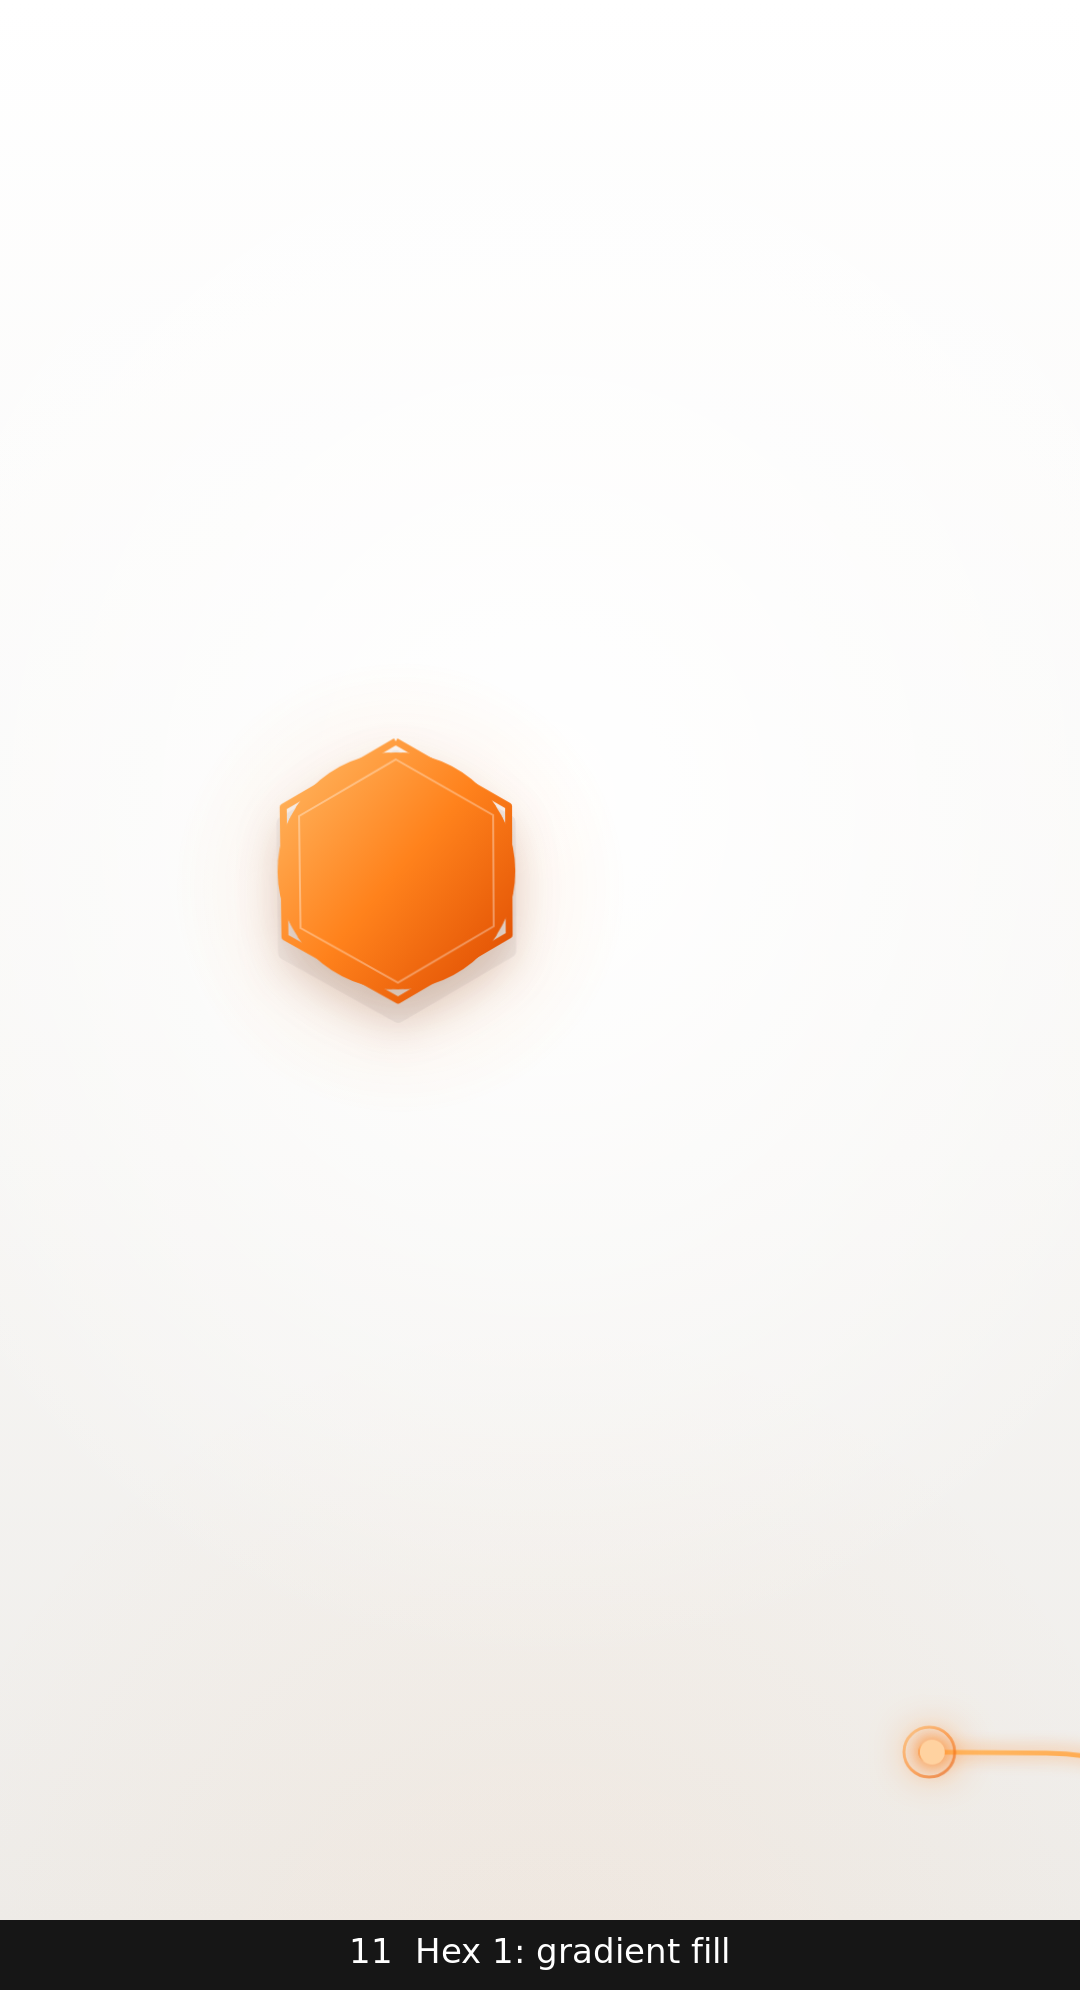
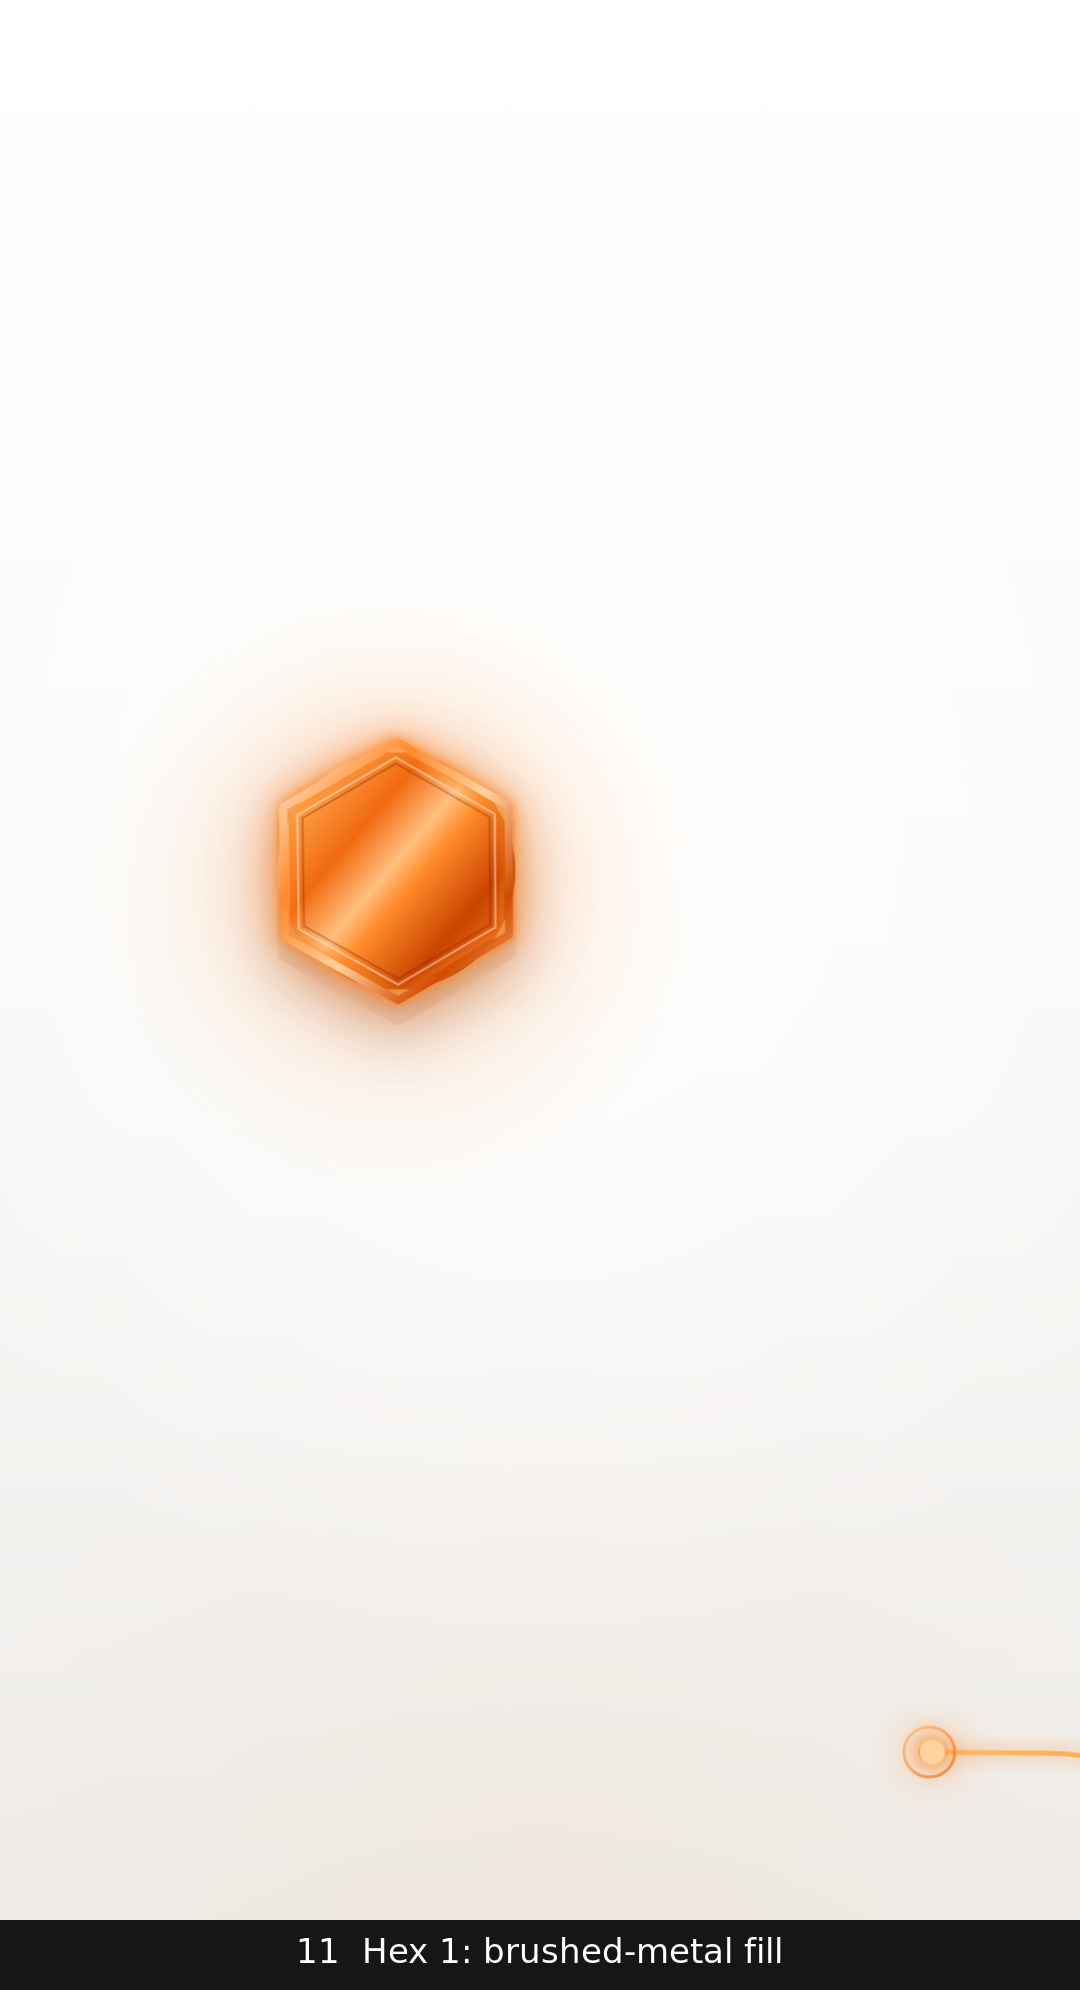
Metallic finish and stronger glow on watch and hexagons
Watch: black-chrome bezel, brushed case side, polished chrome inner ring,
satin sunray dial, polished steel hands, metallic orange arc with layered
glow, chrome-rimmed cap, orange bloom. Hexagons: brushed orange-metal fill,
chamfered bevel, gunmetal base, sweeping sheen, stronger orange bloom.

Claude-Session: https://claude.ai/code/session_01Bj9t4fPL2h7ooNX7PXr41w

Changed region(s): [[0.1833, 0.3427, 0.55, 0.5296], [0.3361, 0.9658, 0.7333, 0.997], [0.275, 0.9658, 0.3056, 0.997]]

diff --git a/video/motion.js b/video/motion.js
@@ -216,15 +216,22 @@ addScene({
     const layer = (z, style, html, cls = 'abs') => { const d = el('div', S.dw, cls, Object.assign({ left: 0, top: 0, width: '1000px', height: '1000px' }, style), html); d.style.transform = `translateZ(${z}px)`; return d; };
     const disc = (d, extra) => Object.assign({ left: px(500 - d / 2), top: px(500 - d / 2), width: px(d), height: px(d), borderRadius: '50%' }, extra);
     S.layers = [];
+    S.layers.push(layer(-90, disc(1060, { background: 'radial-gradient(closest-side, rgba(255,120,20,.38), rgba(255,140,40,.14) 55%, rgba(255,130,28,0))', filter: 'blur(18px)' })));   // orange bloom
     S.layers.push(layer(-80, disc(860, { background: 'radial-gradient(closest-side, rgba(40,20,0,.32), rgba(40,20,0,0))', filter: 'blur(28px)' })));
-    for (let k = 0; k < 12; k++) S.layers.push(layer(k * 3, disc(2 * R, { background: `linear-gradient(135deg, #${k % 2 ? '3a3a3a' : '2a2a2a'}, #050505)` })));
-    S.layers.push(layer(36, disc(2 * R, { background: 'conic-gradient(from 210deg, #0c0c0c, #5d5d5d 12%, #121212 30%, #2d2d2d 52%, #090909 74%, #4c4c4c 90%, #0c0c0c)', boxShadow: 'inset 0 0 0 2px rgba(255,255,255,.08)' })));
-    S.layers.push(layer(39, disc(2 * R - 64, { background: 'radial-gradient(circle at 40% 32%, #FFFFFF 0%, #F9F8F7 50%, #E2E0DE 100%)', boxShadow: 'inset 0 10px 26px rgba(0,0,0,.22)' })));
+    // brushed-metal case side: stacked rings with shifting highlights
+    for (let k = 0; k < 12; k++) S.layers.push(layer(k * 3, disc(2 * R, { background: `conic-gradient(from ${200 + k * 4}deg, #0a0a0a, #7a7a7a 10%, #151515 22%, #3a3a3a 40%, #b8b8b8 47%, #1a1a1a 55%, #050505 72%, #5c5c5c 86%, #0a0a0a)` })));
+    // black-chrome bezel with sharp reflections
+    S.layers.push(layer(36, disc(2 * R, { background: 'conic-gradient(from 205deg, #0b0b0b, #9a9a9a 7%, #1c1c1c 14%, #3c3c3c 28%, #e2e2e2 35%, #262626 42%, #070707 58%, #6a6a6a 70%, #121212 80%, #c4c4c4 88%, #0b0b0b)', boxShadow: 'inset 0 2px 0 rgba(255,255,255,.35), inset 0 -3px 6px rgba(0,0,0,.6)' })));
+    // polished chrome inner ring
+    S.layers.push(layer(38, disc(2 * R - 52, { background: 'conic-gradient(from 30deg, #f4f4f4, #7c7c7c 12%, #ffffff 24%, #5a5a5a 40%, #e6e6e6 55%, #6c6c6c 70%, #ffffff 84%, #8a8a8a 94%, #f4f4f4)',
+      WebkitMask: 'radial-gradient(circle, transparent 0 calc(50% - 9px), #000 calc(50% - 8px))', mask: 'radial-gradient(circle, transparent 0 calc(50% - 9px), #000 calc(50% - 8px))' })));
+    // satin sunray dial
+    S.layers.push(layer(39, disc(2 * R - 70, { background: 'repeating-conic-gradient(from 0deg, rgba(0,0,0,.028) 0deg 1.2deg, rgba(255,255,255,.05) 1.2deg 2.4deg), radial-gradient(circle at 40% 30%, #FFFFFF 0%, #F6F5F3 48%, #DCDAD7 100%)', boxShadow: 'inset 0 12px 28px rgba(0,0,0,.25), inset 0 -2px 4px rgba(255,255,255,.8)' })));
     const tk = layer(43, {}, '');
     const s = sv('svg', tk, { width: 1000, height: 1000, viewBox: '0 0 1000 1000', style: 'position:absolute;left:0;top:0;overflow:visible' });
     for (let i = 0; i < 60; i++) {
       const a = i / 60 * Math.PI * 2, maj = i % 5 === 0, r1 = R - 52, r2 = r1 - (maj ? 46 : 20);
-      sv('line', s, { x1: 500 + Math.cos(a) * r1, y1: 500 + Math.sin(a) * r1, x2: 500 + Math.cos(a) * r2, y2: 500 + Math.sin(a) * r2, stroke: maj ? '#1a1a1a' : '#C4C4C4', 'stroke-width': maj ? 7 : 3, 'stroke-linecap': 'round' });
+      sv('line', s, { x1: 500 + Math.cos(a) * r1, y1: 500 + Math.sin(a) * r1, x2: 500 + Math.cos(a) * r2, y2: 500 + Math.sin(a) * r2, stroke: maj ? 'url(#gChrome)' : '#BDBDBD', 'stroke-width': maj ? 8 : 3, 'stroke-linecap': maj ? 'butt' : 'round' });
     }
     [['12', 0], ['3', 90], ['6', 180], ['9', 270]].forEach(([n, d]) => {
       const a = (d - 90) * Math.PI / 180, r = R - 140;
@@ -233,15 +240,16 @@ addScene({
     const brand = sv('text', s, { x: 500, y: 650, 'text-anchor': 'middle', 'font-family': 'Inter', 'font-weight': 600, 'font-size': 20, 'letter-spacing': 6, fill: '#A0A0A0' }); brand.textContent = 'ISP · EVERY SECOND';
     const ar = layer(47, {}, '');
     const s2 = sv('svg', ar, { width: 1000, height: 1000, viewBox: '0 0 1000 1000', style: 'position:absolute;left:0;top:0;overflow:visible' });
-    S.arcG = sv('circle', s2, { cx: 500, cy: 500, r: R - 78, fill: 'none', stroke: '#FF821C', 'stroke-width': 30, opacity: .45, pathLength: 1, transform: 'rotate(-90 500 500)', style: 'filter:blur(12px)' });
-    S.arc = sv('circle', s2, { cx: 500, cy: 500, r: R - 78, fill: 'none', stroke: 'url(#gAcc)', 'stroke-width': 12, 'stroke-linecap': 'round', pathLength: 1, transform: 'rotate(-90 500 500)' });
+    S.arcG = sv('circle', s2, { cx: 500, cy: 500, r: R - 78, fill: 'none', stroke: '#FF7A10', 'stroke-width': 44, opacity: .55, pathLength: 1, transform: 'rotate(-90 500 500)', style: 'filter:blur(16px)' });
+    S.arcG2 = sv('circle', s2, { cx: 500, cy: 500, r: R - 78, fill: 'none', stroke: '#FFB060', 'stroke-width': 20, opacity: .7, pathLength: 1, transform: 'rotate(-90 500 500)', style: 'filter:blur(5px)' });
+    S.arc = sv('circle', s2, { cx: 500, cy: 500, r: R - 78, fill: 'none', stroke: 'url(#gArcMetal)', 'stroke-width': 14, 'stroke-linecap': 'round', pathLength: 1, transform: 'rotate(-90 500 500)' });
     S.layers.push(tk, ar);
     S.hShadow = layer(46, { filter: 'blur(7px)' }, handSVG('#000', '#000', '#000'));
     S.hShadow.style.transform = 'translate3d(16px,22px,46px)';
-    S.hand = layer(92, { filter: 'drop-shadow(0 4px 6px rgba(0,0,0,.25))' }, handSVG('url(#gDarkV)', '#111'));
-    S.sec = layer(104, {}, `<svg width="1000" height="1000" viewBox="0 0 1000 1000" style="position:absolute;left:0;top:0;overflow:visible"><g class="rot"><path d="M497 640 L498 500 L500 120 L502 500 L503 640 Z" fill="url(#gAccV)"/><circle cx="500" cy="610" r="14" fill="url(#gAccV)"/></g></svg>`);
-    S.cap = layer(112, {}, `<svg width="1000" height="1000" viewBox="0 0 1000 1000" style="position:absolute;left:0;top:0"><circle cx="500" cy="500" r="30" fill="url(#gCap)"/><circle cx="500" cy="500" r="9" fill="#2a1200"/></svg>`);
-    S.glass = layer(124, disc(2 * R - 64, { background: 'linear-gradient(150deg, rgba(255,255,255,.7) 0%, rgba(255,255,255,.12) 34%, rgba(255,255,255,0) 52%)' }));
+    S.hand = layer(92, { filter: 'drop-shadow(0 4px 6px rgba(0,0,0,.3))' }, handSVG('url(#gHandMetal)', 'url(#gChrome)', 'url(#gTrack)'));
+    S.sec = layer(104, {}, `<svg width="1000" height="1000" viewBox="0 0 1000 1000" style="position:absolute;left:0;top:0;overflow:visible"><g class="rot" style="filter:drop-shadow(0 0 5px rgba(255,130,28,.8))"><path d="M496 640 L497.5 500 L500 120 L502.5 500 L504 640 Z" fill="url(#gMetalAcc)"/><circle cx="500" cy="610" r="15" fill="url(#gCap)"/></g></svg>`);
+    S.cap = layer(112, {}, `<svg width="1000" height="1000" viewBox="0 0 1000 1000" style="position:absolute;left:0;top:0"><circle cx="500" cy="500" r="36" fill="url(#gChrome)"/><circle cx="500" cy="500" r="30" fill="url(#gCap)" style="filter:drop-shadow(0 0 8px rgba(255,130,28,.9))"/><ellipse cx="491" cy="490" rx="11" ry="7" fill="rgba(255,255,255,.75)"/><circle cx="500" cy="500" r="7" fill="url(#gChrome)"/></svg>`);
+    S.glass = layer(124, disc(2 * R - 64, { background: 'linear-gradient(150deg, rgba(255,255,255,.78) 0%, rgba(255,255,255,.14) 30%, rgba(255,255,255,0) 46%), linear-gradient(330deg, rgba(255,255,255,.35) 0%, rgba(255,255,255,0) 16%)' }));
     S.layers.push(S.hand, S.sec, S.cap, S.glass);
     S.rotH = [S.hShadow, S.hand].map(l => l.querySelector('.rot')); S.rotS = S.sec.querySelector('.rot');
     S.l1 = textLine(c, 1430, [{ t: 'Every second' }], HEAD).chars;
@@ -256,7 +264,7 @@ addScene({
     const o = E(lt, -.35, .2);
     S.layers.forEach(l => l.style.opacity = o);
     S.hShadow.style.opacity = .3 * o;
-    dash(S.arc, .42 * E(lt, .25, 1.5)); dash(S.arcG, .42 * E(lt, .25, 1.5));
+    [S.arc, S.arcG, S.arcG2].forEach(a => dash(a, .42 * E(lt, .25, 1.5)));
     const ah = -70 + 52 * E(lt, -.2, D2), as = -150 + 360 * P(lt, -.2, D2 + .4);
     S.rotH.forEach(g => g.setAttribute('transform', `rotate(${ah} 500 500)`));
     S.rotS.setAttribute('transform', `rotate(${as} 500 500)`);
@@ -387,21 +395,27 @@ const ICONS = {
 function hexSVG(i, icon) {
   const poly = r => { const p = []; for (let k = 0; k < 6; k++) { const a = (-90 + k * 60) * Math.PI / 180; p.push((Math.cos(a) * r).toFixed(1) + ',' + (Math.sin(a) * r).toFixed(1)); } return p.join(' '); };
   return `<svg width="320" height="330" viewBox="-160 -160 320 330" style="overflow:visible">
-   <defs><clipPath id="hc${i}"><circle class="clip" cx="0" cy="0" r="0"/></clipPath></defs>
-   <polygon class="ext" points="${poly(130)}" transform="translate(0 16)" fill="url(#gDark)" stroke="url(#gDark)" stroke-width="14" stroke-linejoin="round" opacity="0"/>
-   <g clip-path="url(#hc${i})"><polygon points="${poly(130)}" fill="url(#gAcc)" stroke="url(#gAcc)" stroke-width="14" stroke-linejoin="round"/>
-     <polygon points="${poly(112)}" fill="none" stroke="rgba(255,255,255,.35)" stroke-width="2"/></g>
-   <polygon class="out" points="${poly(130)}" fill="none" stroke="url(#gAcc)" stroke-width="7" stroke-linejoin="round" pathLength="1" stroke-dasharray="0 1"/>
-   <g transform="translate(-60 -60)" fill="none" stroke="#fff" stroke-width="5" stroke-linecap="round" stroke-linejoin="round" style="filter:drop-shadow(0 0 4px rgba(255,255,255,.6))">
+   <defs><clipPath id="hc${i}"><circle class="clip" cx="0" cy="0" r="0"/></clipPath>
+     <clipPath id="hs${i}"><polygon points="${poly(137)}"/></clipPath></defs>
+   <polygon class="ext" points="${poly(130)}" transform="translate(0 18)" fill="url(#gGun)" stroke="url(#gGun)" stroke-width="14" stroke-linejoin="round" opacity="0"/>
+   <g clip-path="url(#hc${i})">
+     <polygon points="${poly(130)}" fill="url(#gMetalAcc)" stroke="url(#gMetalAcc)" stroke-width="14" stroke-linejoin="round"/>
+     <polygon points="${poly(131)}" fill="none" stroke="url(#gBevel)" stroke-width="12" stroke-linejoin="round"/>
+     <polygon points="${poly(114)}" fill="none" stroke="rgba(255,240,225,.55)" stroke-width="2"/>
+     <polygon points="${poly(108)}" fill="none" stroke="rgba(120,35,0,.35)" stroke-width="2"/>
+     <g clip-path="url(#hs${i})"><rect class="sheen" x="-60" y="-220" width="120" height="440" fill="url(#gSheen)" transform="rotate(25) translate(-400 0)"/></g></g>
+   <polygon class="out" points="${poly(130)}" fill="none" stroke="url(#gMetalStroke)" stroke-width="8" stroke-linejoin="round" pathLength="1" stroke-dasharray="0 1" style="filter:drop-shadow(0 0 6px rgba(255,130,28,.9))"/>
+   <g transform="translate(-60 -60)" fill="none" stroke="#fff" stroke-width="5" stroke-linecap="round" stroke-linejoin="round" style="filter:drop-shadow(0 1px 1px rgba(90,25,0,.55)) drop-shadow(0 0 6px rgba(255,255,255,.9)) drop-shadow(0 0 14px rgba(255,220,180,.7))">
      ${icon.map(d => `<path class="ic" d="${d}" pathLength="1" stroke-dasharray="0 1"/>`).join('')}</g></svg>`;
 }
 addScene({
   build(c, S) {
     const hx = [[418, 880, 'trust', 40], [662, 880, 'leads', 40], [540, 1091, 'deals', 80]];
     S.hex = hx.map(([x, y, k, z], i) => {
-      const g = glow(c, x, y + 10, 460, 460, z - 30);
-      const d = at(el('div', c, 'ctr', { filter: 'drop-shadow(0 24px 22px rgba(120,40,0,.22))' }, hexSVG(i, ICONS[k])), x, y);
-      return { d, g, z, clip: d.querySelector('.clip'), ext: d.querySelector('.ext'), out: d.querySelector('.out'), ic: [...d.querySelectorAll('.ic')] };
+      const g = glow(c, x, y + 10, 620, 620, z - 30);
+      g.style.background = 'radial-gradient(closest-side, rgba(255,120,20,.42), rgba(255,140,40,.16) 50%, rgba(255,130,28,0))';
+      const d = at(el('div', c, 'ctr', { padding: '110px', filter: 'drop-shadow(0 0 16px rgba(255,125,25,.55)) drop-shadow(0 0 46px rgba(255,125,25,.32)) drop-shadow(0 26px 24px rgba(110,35,0,.25))' }, hexSVG(i, ICONS[k])), x, y);
+      return { d, g, z, clip: d.querySelector('.clip'), ext: d.querySelector('.ext'), out: d.querySelector('.out'), sheen: d.querySelector('.sheen'), ic: [...d.querySelectorAll('.ic')] };
     });
     const s = svgFull(fullLayer(c, 10));
     S.lines = ['M418 732 L418 690 L345 622', 'M662 732 L662 690 L735 622', 'M540 1245 L540 1288 L613 1356']
@@ -420,7 +434,8 @@ addScene({
       H.ext.setAttribute('opacity', E(lt, a + .45, a + .8));
       H.ic.forEach((p, j) => dash(p, E(lt, a + .55 + j * .06, a + .95 + j * .06)));
       T(H.d, { z: H.z, s: .9 + .1 * o, o: o > 0 ? 1 : 0, ry: 18 * (1 - f), rx: -10 * (1 - f) });
-      H.g.style.opacity = .9 * f;
+      H.g.style.opacity = f;
+      H.sheen.setAttribute('transform', `rotate(25) translate(${(-400 + 800 * E(lt, a + .7, a + 1.35)).toFixed(1)} 0)`);
       dash(S.lines[i], E(lt, a + .8, a + 1.1));
       S.dots[i].setAttribute('opacity', E(lt, a + 1.0, a + 1.15));
       typeIn(S.labels[i], lt, a + .95, .03);

diff --git a/video/index.html b/video/index.html
@@ -75,6 +75,30 @@ body.render #ui{display:none}
   <linearGradient id="gDark" x1="0" y1="0" x2="1" y2="1"><stop offset="0" stop-color="#555"/><stop offset=".55" stop-color="#161616"/><stop offset="1" stop-color="#000"/></linearGradient>
   <linearGradient id="gDarkV" x1="0" y1="0" x2="0" y2="1"><stop offset="0" stop-color="#5A5A5A"/><stop offset=".5" stop-color="#1A1A1A"/><stop offset="1" stop-color="#000"/></linearGradient>
   <linearGradient id="gTrack" x1="0" y1="0" x2="1" y2="1"><stop offset="0" stop-color="#F2F2F2"/><stop offset="1" stop-color="#CFCFCF"/></linearGradient>
+  <!-- metallic finishes -->
+  <linearGradient id="gMetalAcc" x1="0" y1="0" x2="1" y2="1">
+    <stop offset="0" stop-color="#FFE2BC"/><stop offset=".16" stop-color="#FFA048"/><stop offset=".34" stop-color="#F06A10"/>
+    <stop offset=".48" stop-color="#FFC07E"/><stop offset=".56" stop-color="#FF8A2A"/><stop offset=".74" stop-color="#C94400"/>
+    <stop offset=".9" stop-color="#F27420"/><stop offset="1" stop-color="#8E2E00"/></linearGradient>
+  <linearGradient id="gMetalStroke" x1="0" y1="0" x2="1" y2="1">
+    <stop offset="0" stop-color="#FFF0DC"/><stop offset=".3" stop-color="#FF8A2A"/><stop offset=".55" stop-color="#FFD2A0"/>
+    <stop offset=".8" stop-color="#D24A00"/><stop offset="1" stop-color="#FFB46A"/></linearGradient>
+  <linearGradient id="gBevel" x1="0" y1="0" x2="1" y2="1">
+    <stop offset="0" stop-color="#FFFFFF" stop-opacity=".95"/><stop offset=".35" stop-color="#FFFFFF" stop-opacity=".15"/>
+    <stop offset=".65" stop-color="#5A1A00" stop-opacity=".1"/><stop offset="1" stop-color="#3A0F00" stop-opacity=".6"/></linearGradient>
+  <linearGradient id="gGun" x1="0" y1="0" x2="1" y2="0">
+    <stop offset="0" stop-color="#1A1A1A"/><stop offset=".25" stop-color="#6E6E6E"/><stop offset=".4" stop-color="#2A2A2A"/>
+    <stop offset=".7" stop-color="#0C0C0C"/><stop offset=".85" stop-color="#555"/><stop offset="1" stop-color="#050505"/></linearGradient>
+  <linearGradient id="gSheen" x1="0" y1="0" x2="1" y2="0">
+    <stop offset="0" stop-color="#fff" stop-opacity="0"/><stop offset=".5" stop-color="#fff" stop-opacity=".75"/><stop offset="1" stop-color="#fff" stop-opacity="0"/></linearGradient>
+  <linearGradient id="gHandMetal" x1="0" y1="0" x2="1" y2="0">
+    <stop offset="0" stop-color="#050505"/><stop offset=".38" stop-color="#3C3C3C"/><stop offset=".49" stop-color="#EDEDED"/>
+    <stop offset=".53" stop-color="#5A5A5A"/><stop offset="1" stop-color="#000"/></linearGradient>
+  <linearGradient id="gChrome" x1="0" y1="0" x2="0" y2="1">
+    <stop offset="0" stop-color="#9A9A9A"/><stop offset=".45" stop-color="#1A1A1A"/><stop offset=".55" stop-color="#E0E0E0"/><stop offset="1" stop-color="#111"/></linearGradient>
+  <linearGradient id="gArcMetal" x1="0" y1="0" x2="1" y2="1">
+    <stop offset="0" stop-color="#FFE7C8"/><stop offset=".25" stop-color="#FF8A26"/><stop offset=".5" stop-color="#FFC27E"/>
+    <stop offset=".75" stop-color="#E45200"/><stop offset="1" stop-color="#FF9A40"/></linearGradient>
   <radialGradient id="gCap" cx=".35" cy=".3" r=".8"><stop offset="0" stop-color="#FFD3A0"/><stop offset=".45" stop-color="#FF821C"/><stop offset="1" stop-color="#B83C00"/></radialGradient>
 </defs></svg>
 <div id="viewport">
